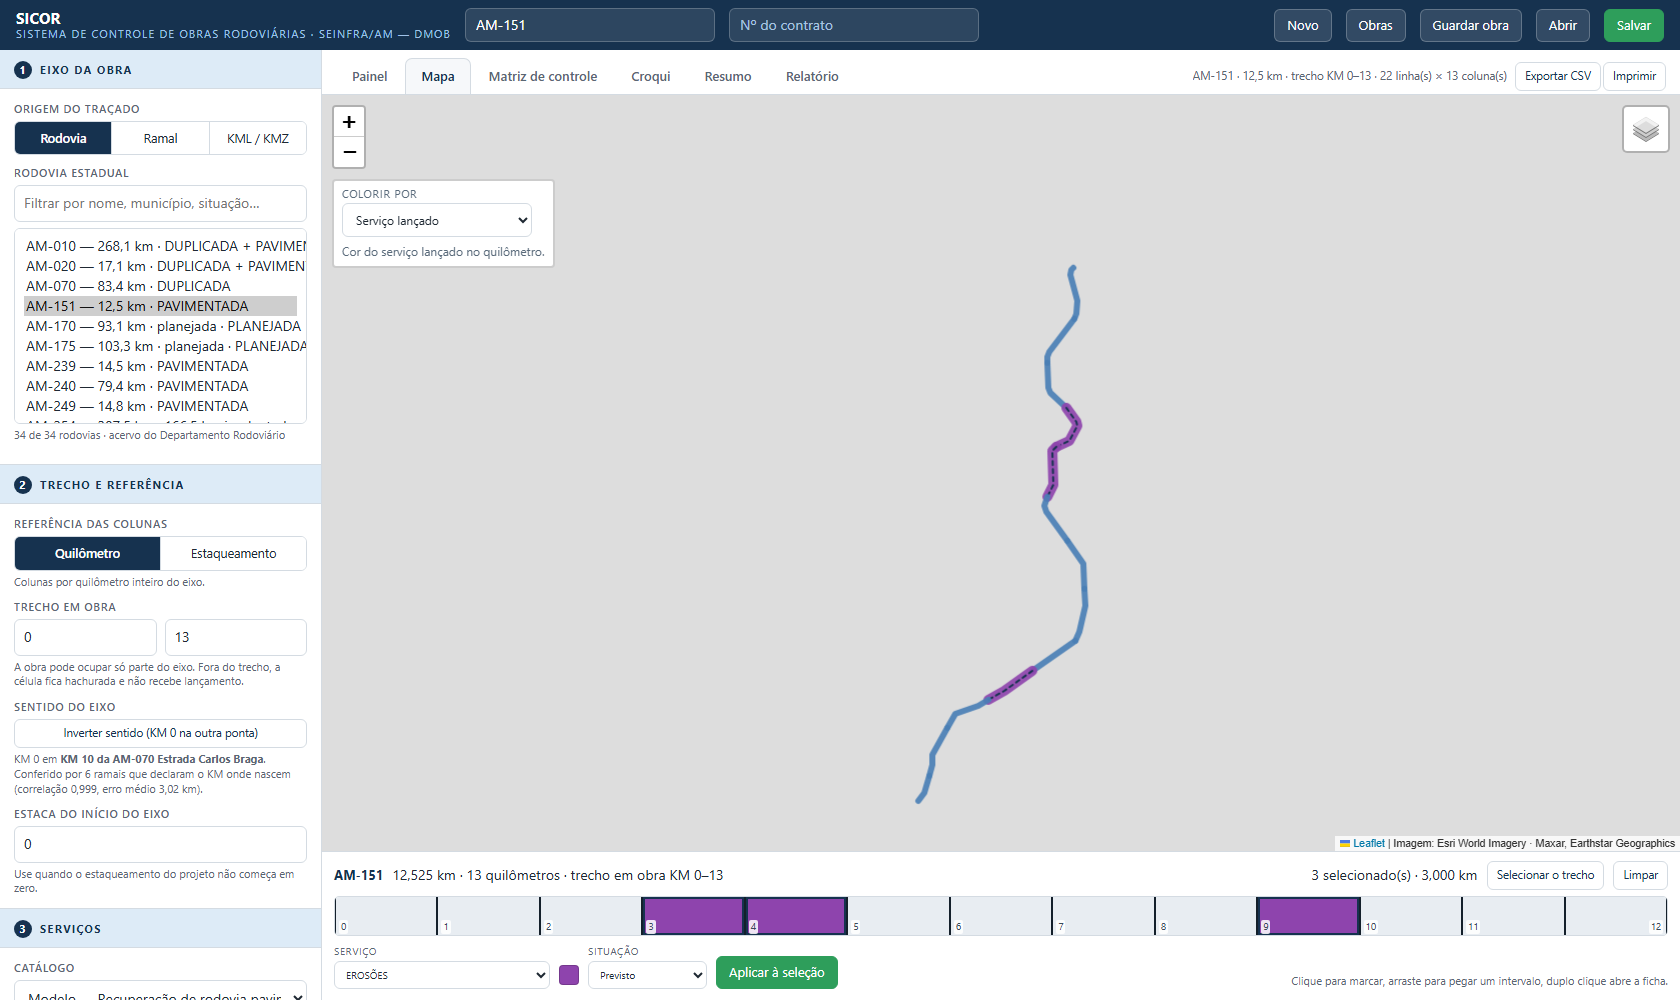
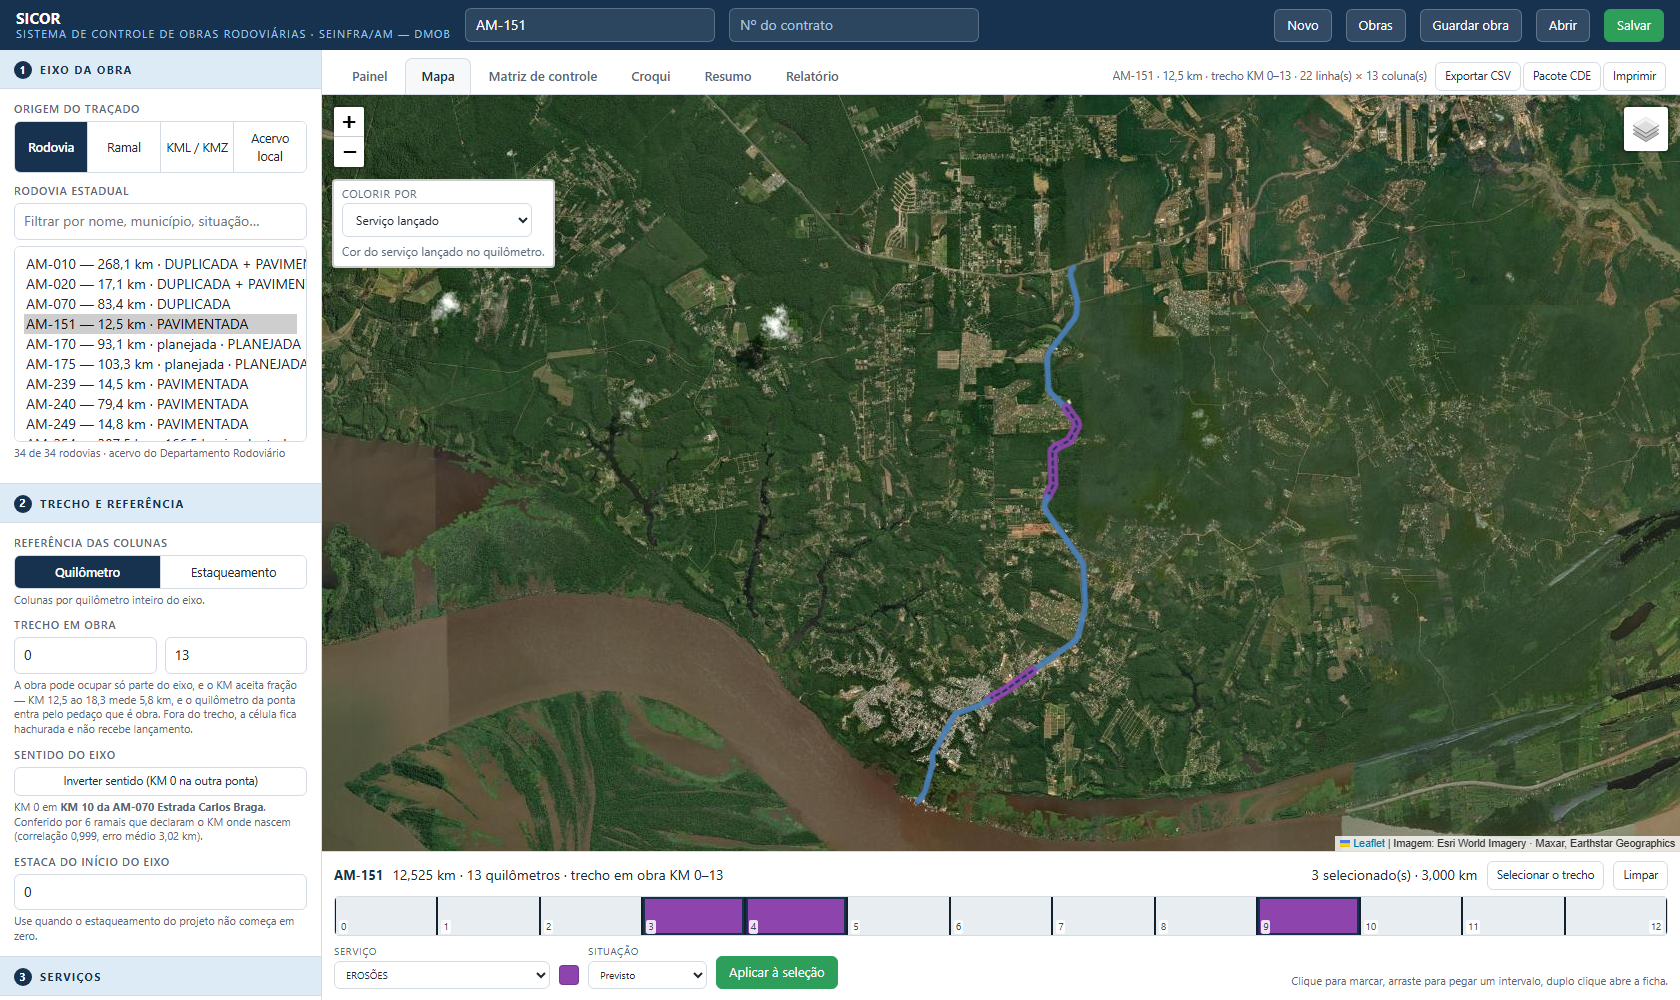
test: últimos ajustes do HAL9000 nas provas e na folha de campo
Cinco arquivos deles conferidos antes de entrar — módulos, campo, painel e o autoteste do
verificador, todos verdes. As capturas foram regeradas pelas próprias provas.

diff --git a/estilo/campo.css b/estilo/campo.css
@@ -133,3 +133,58 @@ table.mat th.sv { min-width: 150px; font-size: 11px; }
   aside { max-height: 42vh; }
   .cards { grid-template-columns: repeat(auto-fit, minmax(120px, 1fr)); }
 }
+
+/* ------------------------------------------- o que o fiscal precisa ver junto */
+/* A Cortanna mediu e mostrou o defeito que era meu: com a lateral empilhada, o mapa crescia
+   e empurrava a faixa unifilar para FORA da tela — em tablet paisagem ela terminava em 803 px
+   numa tela de 768, e no telefone começava 164 px abaixo do fim. O toque funcionava; a faixa é
+   que não estava lá.
+
+   Em campo o mapa é o que pode ceder: quem está com o tablet na mão está lançando serviço, e
+   quem lança é a faixa. Então a coluna passa a ter altura da tela, a lateral e a faixa ficam
+   com o tamanho que precisam, e o mapa fica com o que sobrar. */
+main {
+  height: 100vh;
+  height: 100dvh;                      /* dvh desconta a barra do navegador no telefone */
+  overflow: hidden;
+}
+aside { flex: 0 0 auto; }
+section.painel {
+  flex: 1 1 auto;
+  min-height: 0;                       /* sem isto o filho impede a coluna de encolher */
+  display: flex;
+  flex-direction: column;
+}
+.conteudo, #conteudo { flex: 1 1 auto; min-height: 0; overflow: auto; }
+#vMapa { height: 100%; min-height: 0; }
+#mapaCaixa { flex: 1 1 auto; min-height: 110px; }
+#faixaBox { flex: 0 0 auto; }          /* a faixa nunca é a que encolhe */
+
+/* --------------------------------------------- medido: quem estava empurrando a faixa */
+/* `#mapaCaixa` tem `min-height: 220px` na folha da página, que vem DEPOIS deste arquivo no
+   <head> — a minha regra de 110 px empatava em especificidade e perdia. Com `body` na frente
+   ela passa a valer. Números medidos em tablet paisagem: mapa 220 + caixa da faixa 173 = 393
+   dentro de um espaço de 281, e a faixa terminava 35 px abaixo da tela. */
+body #mapaCaixa {
+  min-height: 90px;
+  flex: 1 1 0;
+}
+body #vMapa { display: flex; flex-direction: column; }
+body #conteudo, body .conteudo { overflow: hidden; }   /* quem rola é cada vista, não a moldura */
+
+/* A caixa da faixa chegava a 337 px no telefone — cabeçalho, trilho e barra de lançamento.
+   Ela é a razão de o fiscal estar com o aparelho na mão, então encolhe sem sumir. */
+body #faixaBox { padding: 6px 8px 8px; }
+body #faixaBox .faixaCab { margin-bottom: 4px; gap: 6px; }
+body #faixaBox select, body #faixaBox button { min-height: 40px; }
+
+@media (max-height: 820px) {
+  aside { max-height: 30vh; }           /* em paisagem a altura é o recurso escasso */
+}
+@media (max-width: 480px) {
+  /* o cabeçalho ocupava 219 px de uma tela de 844 — um quarto da tela para dizer o nome do
+     sistema. O subtítulo institucional sai; a marca e os botões ficam. */
+  header .marca span { display: none; }
+  header { padding: 6px 10px; gap: 6px 8px; }
+  aside { max-height: 32vh; }
+}

diff --git a/ferramentas/testar-o-verificador.py b/ferramentas/testar-o-verificador.py
@@ -153,6 +153,54 @@ caso('avanco volta a contar celula em vez de km',
      injeta_pct_por_celula, 'difere do avanço real', 'testar-estaca-e-trecho.mjs')
 
 
+# 8. chamada dentro de INTERPOLACAO de template.
+# A varredura antiga apagava o template inteiro, inclusive o ${...}, e ficava
+# cega para chamada feita ali dentro — que neste projeto e' onde mora boa parte
+# do codigo, porque a interface e' montada com template. A varredura com pilha
+# trata ${...} como codigo; este caso prova que trata.
+def injeta_fantasma_em_template(base):
+    p = os.path.join(base, 'app', '13-faixa.js')
+    s = io.open(p, encoding='utf-8', newline='').read()
+    linha = ('\nfunction usaNoTemplate(){ return ' + chr(96) + 'x ${'
+             + 'somaQueNaoExiste(1)} y' + chr(96) + '; }\n')
+    io.open(p, 'w', encoding='utf-8', newline='').write(s + linha)
+
+
+caso('chamada dentro de ${...} de template', injeta_fantasma_em_template,
+     'somaQueNaoExiste')
+
+
+# 9. AO CONTRARIO dos outros: plural em portugues dentro de template e' TEXTO, e
+# a prova NAO pode reclamar dele. `ensaio(s)`, `julgado(s)`, `Ambos (...)` sao
+# indistinguiveis de chamada para uma varredura ingenua. Quando a minha perdia a
+# crase de fechamento de template aninhado, cada plural virava "funcao que
+# ninguem declara" — quatro falsos positivos de uma vez, no codigo real.
+FALSOS = []
+
+
+def falso_positivo(nome, aplica, nao_espera, prova='testar-modulos.mjs'):
+    FALSOS.append((nome, aplica, nao_espera, prova))
+
+
+def injeta_plural_em_template(base):
+    # Template com plural NO TEXTO e outro template dentro da interpolacao —
+    # exatamente a forma que quebrava a varredura. A primeira versao deste
+    # fixture era JavaScript INVALIDO, e a prova acusou erro de sintaxe: ela
+    # estava certa e o meu fixture errado. Montado com chr(96) porque escrever a
+    # crase aqui e' o que produziu a confusao.
+    p = os.path.join(base, 'app', '13-faixa.js')
+    s = io.open(p, encoding='utf-8', newline='').read()
+    b = chr(96)
+    linha = ('\nfunction textoPlural(n){ return ' + b
+             + '${n} ensaio(s), ${n} registro(s), Ambos (dois lados) e ${'
+             + b + 'aninhado ${n} vez(es)' + b + '}' + b + '; }\n')
+    io.open(p, 'w', encoding='utf-8', newline='').write(s + linha)
+
+
+falso_positivo('plural em portugues dentro de template nao e chamada',
+               injeta_plural_em_template, 'ensaio')
+
+
 print('=' * 78)
 print('AUTOTESTE DAS PROVAS — cada defeito injetado TEM de reprovar')
 print('=' * 78)
@@ -190,9 +238,34 @@ for nome, aplica, espera, prova in CASOS:
             print(f'  FALHOU  NAO pegou: {nome}')
             print(f'          codigo {rc}; esperava a mensagem conter "{espera}"')
 
+for nome, aplica, nao_espera, prova in FALSOS:
+    with tempfile.TemporaryDirectory() as tmp:
+        base = os.path.join(tmp, 'falso')
+        os.makedirs(base)
+        prepara(base)
+        aplica(base)
+        rc, saida = roda(base, prova)
+        # Aqui o certo e' PASSAR: o que foi injetado e' texto, nao defeito.
+        #
+        # A condicao NAO pode ser "a palavra X nao aparece na saida": eu tentei
+        # com 'ensaio' e deu falso alarme, porque existe um modulo chamado
+        # `10-ensaios.js` e o nome dele sai na linha "carregou" do passo 3.
+        # Procurar palavra na saida inteira e' o mesmo erro de mirar largo que
+        # essa familia de defeito vive cometendo. O que interessa e' se a prova
+        # ACUSOU algo.
+        acusou = [l.strip() for l in saida.split('\n') if 'FALHOU' in l]
+        if rc == 0 and not acusou:
+            print(f'  OK      nao reclamou de: {nome}')
+        else:
+            falhas += 1
+            print(f'  FALHOU  FALSO POSITIVO: {nome}')
+            for l in saida.split('\n'):
+                if 'FALHOU' in l:
+                    print('          ' + l.strip()[:110])
+
 print('=' * 78)
-print('AUTOTESTE OK — o verificador reprova todos os defeitos injetados'
+print('AUTOTESTE OK — reprova todo defeito injetado e não inventa nenhum'
       if not falhas else
-      f'AUTOTESTE FALHOU — {falhas} furo(s) no verificador')
+      f'AUTOTESTE FALHOU — {falhas} furo(s) nas provas')
 print('=' * 78)
 sys.exit(1 if falhas else 0)

diff --git a/ferramentas/testar-campo.py b/ferramentas/testar-campo.py
@@ -144,8 +144,23 @@ def main():
                    "e ocupa a largura útil, em vez de uma janelinha",
                    f"{round(100*fic['l']/fic['vw'])}% da largura")
 
-            # a faixa unifilar é o gesto central do produto: se ela não responde ao toque, o
-            # fiscal não lança serviço — e isso é comportamento, não estilo
+            # DUAS perguntas separadas, e nessa ordem. A primeira versão desta prova juntava
+            # as duas e dizia «não responde ao toque» quando a faixa estava FORA da tela: mandou
+            # a Cortanna caçar defeito de evento por meia hora, num defeito que era meu, de
+            # layout. Prova que aponta o dono errado custa mais caro que prova nenhuma.
+            visivel = pg.evaluate("""() => {
+                const t = document.querySelector('#faixaTrilho') || document.querySelector('.faixaTrilho');
+                if (!t) return null;
+                const r = t.getBoundingClientRect();
+                return {topo: Math.round(r.top), base: Math.round(r.bottom),
+                        alturaTela: innerHeight,
+                        dentro: r.top >= 0 && r.bottom <= innerHeight + 1}; }""")
+            if visivel:
+                ok(visivel["dentro"],
+                   "a faixa unifilar cabe na área visível, sem rolar a página",
+                   f"faixa de {visivel['topo']} a {visivel['base']} px numa tela de "
+                   f"{visivel['alturaTela']} px")
+
             toque = pg.evaluate("""() => {
                 const t = document.querySelector('#faixaTrilho') || document.querySelector('.faixaTrilho');
                 if (!t) return null;
@@ -160,9 +175,17 @@ def main():
                 km.dispatchEvent(new MouseEvent('click', op));
                 return {antes, depois: (S.sel ? S.sel.size : 0), largura: Math.round(r.width)}; }""")
             if toque:
-                pendente(toque["depois"] != toque["antes"],
-                         "a faixa unifilar responde ao toque", "Cortanna · app/13-faixa.js",
-                         f"seleção {toque['antes']} → {toque['depois']} · célula de {toque['largura']}px")
+                # só agora a pergunta de comportamento, e só quando a faixa está visível:
+                # com o elemento fora da tela, `elementFromPoint` devolve nada e o veredito
+                # seria sobre o dono errado
+                if visivel and visivel["dentro"]:
+                    pendente(toque["depois"] != toque["antes"],
+                             "a faixa unifilar responde ao toque", "Cortanna · app/13-faixa.js",
+                             f"seleção {toque['antes']} → {toque['depois']} · célula de "
+                             f"{toque['largura']}px")
+                else:
+                    print("        (toque não avaliado: a faixa não está na área visível — "
+                          "o defeito a corrigir é o de layout, acima)")
 
             if GUARDAR:
                 pg.screenshot(path=os.path.join(TMP, f"campo-{nome.replace(' ', '-')}.png"),

diff --git a/ferramentas/testar-painel.py b/ferramentas/testar-painel.py
@@ -346,6 +346,38 @@ def main():
                "e o gráfico do contratado passa a existir")
             ok("% DO CONTRATO" in t.upper(), "a coluna «% do contrato» entra no quadro")
 
+            print("")
+            print("11. CLIQUE NA MATRIZ REPINTA SÓ O QUE MUDOU")
+            # A matriz da AM-010 tem 5.918 células e remontá-las a cada clique custava 246 ms
+            # (medido). O clique passou a atualizar a célula, o resumo da linha e o rodapé da
+            # coluna. A prova de que NÃO remonta é o nó da tabela continuar sendo o mesmo
+            # objeto: se alguém voltar a chamar `pintaMatriz()` no clique, o nó é substituído
+            # e este bloco reprova.
+            pg.click("#abas button[data-v='matriz']")
+            pg.wait_for_timeout(1200)
+            m = pg.evaluate("""() => {
+                const t = document.querySelector('#vMatriz table.mat');
+                if (!t) return null;
+                window.__tab = t;
+                const cel = document.querySelector('#vMatriz td.cel');
+                const antesTxt = cel.textContent;
+                const linha = cel.closest('tr');
+                const antesResumo = [...linha.querySelectorAll('td')].slice(0,5).map(td => td.textContent).join('|');
+                cel.click();
+                const t2 = document.querySelector('#vMatriz table.mat');
+                const depoisResumo = [...linha.querySelectorAll('td')].slice(0,5).map(td => td.textContent).join('|');
+                return {mesmoNo: window.__tab === t2, antesTxt, depoisTxt: cel.textContent,
+                        antesResumo, depoisResumo}; }""")
+            ok(m is not None and m["mesmoNo"],
+               "a tabela NÃO é remontada no clique (mesmo nó no DOM)",
+               "mesmo nó" if m and m["mesmoNo"] else "a tabela foi refeita")
+            ok(m and m["depoisTxt"] != m["antesTxt"],
+               "a célula tocada muda de estado",
+               f"«{m['antesTxt']}» → «{m['depoisTxt']}»" if m else "")
+            ok(m and m["depoisResumo"] != m["antesResumo"],
+               "e o resumo da linha acompanha na hora",
+               f"{m['antesResumo']} → {m['depoisResumo']}" if m else "")
+
         print(f"\nERROS DE CONSOLE: {len(console)}")
         for c in console[:6]:
             print("  ", c)
